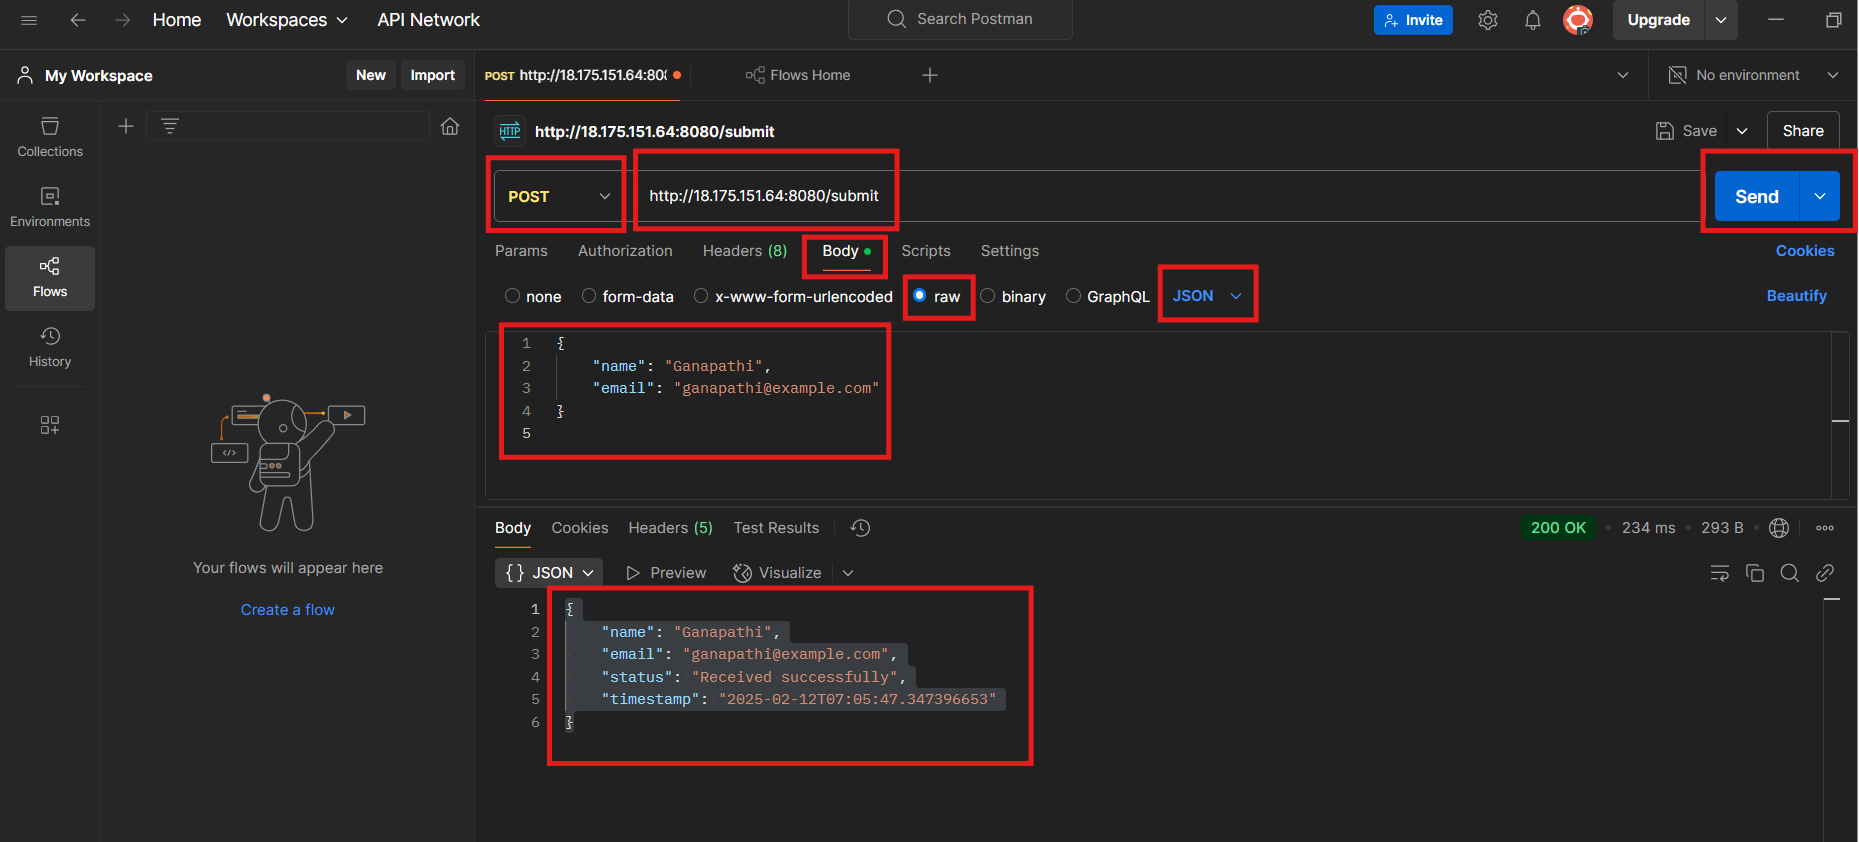
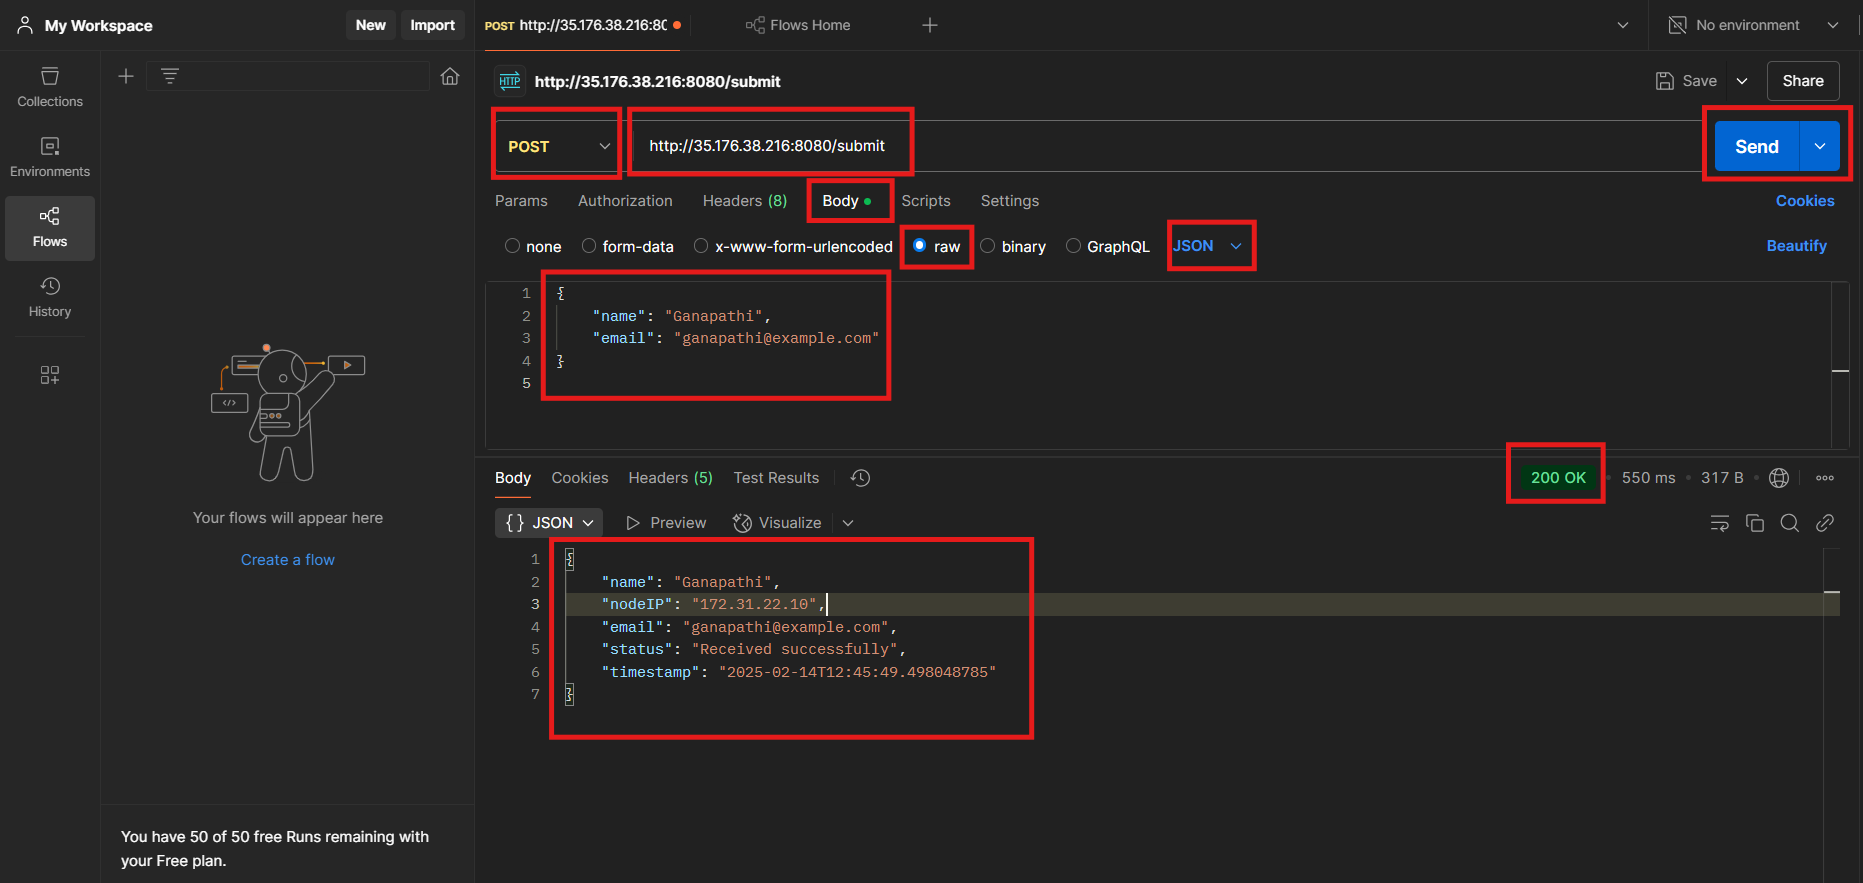
code updated

diff --git a/03.Maven/01.hello-world-app2.md b/03.Maven/01.hello-world-app2.md
@@ -1,6 +1,7 @@
 # Setting Up a Sample Spring Boot Application with Maven on Amazon Linux 
+- [GitHub Repository](https://github.com/kganapathi6008/hello-world-app2)
 
-This guide will walk you through the process of setting up a simple Spring Boot application using Maven on an Amazon Linux server. It includes installing dependencies, building the application, and running it.
+- This guide will walk you through the process of setting up a simple Spring Boot application using Maven on an Amazon Linux server. It includes installing dependencies, building the application, and running it.
 
 ---
 
@@ -183,6 +184,8 @@ import org.springframework.boot.SpringApplication;
 import org.springframework.boot.autoconfigure.SpringBootApplication;
 import org.springframework.web.bind.annotation.*;
 
+import java.net.InetAddress;
+import java.net.UnknownHostException;
 import java.time.LocalDateTime;
 import java.util.HashMap;
 import java.util.Map;
@@ -200,40 +203,44 @@ class HelloController {
     private static final Logger logger = LoggerFactory.getLogger(HelloController.class);
 
     @GetMapping
-    public Map<String, String> hello() {
+    public Map<String, String> hello() throws UnknownHostException {
         logger.info("Received request for / endpoint");
         Map<String, String> response = new HashMap<>();
         response.put("message", "Hello, World from Spring Boot!");
         response.put("timestamp", LocalDateTime.now().toString());
+        response.put("nodeIP", InetAddress.getLocalHost().getHostAddress());
         return response;
     }
 
     @GetMapping("/greet/{name}")
-    public Map<String, String> greet(@PathVariable String name) {
+    public Map<String, String> greet(@PathVariable String name) throws UnknownHostException {
         logger.info("Greeting request for {}", name);
         Map<String, String> response = new HashMap<>();
         response.put("message", "Hello, " + name + "!");
         response.put("timestamp", LocalDateTime.now().toString());
+        response.put("nodeIP", InetAddress.getLocalHost().getHostAddress());
         return response;
     }
 
     @PostMapping("/submit")
-    public Map<String, Object> submit(@RequestBody User user) {
+    public Map<String, Object> submit(@RequestBody User user) throws UnknownHostException {
         logger.info("Received user submission: {}", user);
         Map<String, Object> response = new HashMap<>();
         response.put("name", user.getName());
         response.put("email", user.getEmail());
         response.put("status", "Received successfully");
         response.put("timestamp", LocalDateTime.now().toString());
+        response.put("nodeIP", InetAddress.getLocalHost().getHostAddress());
         return response;
     }
 
     @GetMapping("/status")
-    public Map<String, String> status() {
+    public Map<String, String> status() throws UnknownHostException {
         logger.info("Checking application status");
         Map<String, String> response = new HashMap<>();
         response.put("status", "Application is running fine!");
         response.put("timestamp", LocalDateTime.now().toString());
+        response.put("nodeIP", InetAddress.getLocalHost().getHostAddress());
         return response;
     }
 }
@@ -272,6 +279,7 @@ Edit the file and replace its contents with:
 package com.example;
 
 import static org.assertj.core.api.Assertions.assertThat;
+
 import org.junit.jupiter.api.Test;
 import org.springframework.boot.test.context.SpringBootTest;
 import org.springframework.beans.factory.annotation.Autowired;
@@ -297,15 +305,13 @@ class AppTest {
     @Test
     void helloEndpointShouldReturnJson() {
         ResponseEntity<Map> response = restTemplate.getForEntity("http://localhost:" + port + "/", Map.class);
-        assertThat(response.getBody()).containsKeys("message", "timestamp");
-        assertThat(response.getBody().get("message")).isEqualTo("Hello, World from Spring Boot!");
+        assertThat(response.getBody()).containsKeys("message", "timestamp", "nodeIP");
     }
 
     @Test
     void greetEndpointShouldReturnJson() {
         ResponseEntity<Map> response = restTemplate.getForEntity("http://localhost:" + port + "/greet/Ganapathi", Map.class);
-        assertThat(response.getBody()).containsKeys("message", "timestamp");
-        assertThat(response.getBody().get("message")).isEqualTo("Hello, Ganapathi!");
+        assertThat(response.getBody()).containsKeys("message", "timestamp", "nodeIP");
     }
 
     @Test
@@ -315,16 +321,13 @@ class AppTest {
         user.setEmail("ganapathi@example.com");
 
         ResponseEntity<Map> response = restTemplate.postForEntity("http://localhost:" + port + "/submit", user, Map.class);
-        assertThat(response.getBody()).containsKeys("name", "email", "status", "timestamp");
-        assertThat(response.getBody().get("name")).isEqualTo("Ganapathi");
-        assertThat(response.getBody().get("status")).isEqualTo("Received successfully");
+        assertThat(response.getBody()).containsKeys("name", "email", "status", "timestamp", "nodeIP");
     }
 
     @Test
     void statusEndpointShouldReturnJson() {
         ResponseEntity<Map> response = restTemplate.getForEntity("http://localhost:" + port + "/status", Map.class);
-        assertThat(response.getBody()).containsKeys("status", "timestamp");
-        assertThat(response.getBody().get("status")).isEqualTo("Application is running fine!");
+        assertThat(response.getBody()).containsKeys("status", "timestamp", "nodeIP");
     }
 }
 ```
@@ -442,9 +445,8 @@ Once these rules are set, you can access your Spring Boot application through th
   ```
 
 #### 2. Adding a Screenshot
-```md
 ![Postman Request](../screenshots/hello-world-app-postman.png)
-```
+
 ---
 
 ## **7.Troubleshooting**

diff --git a/04.docker/01.docker-installation.md b/04.docker/01.docker-installation.md
@@ -72,8 +72,21 @@ Then reconnect using SSH:
 ssh ec2-user@<ec2-ip-address-dns-name-here>
 ```
 
-### 10. Verify Docker Installation
-To confirm that Docker is installed and working, run:
+### 10. Apply Group Changes Without Logging Out
+Instead of logging out and logging back in, you can apply the group changes immediately using:
+```sh
+newgrp docker
+```
+This will start a new shell session with the updated group permissions.
+
+### 11. Verify Docker Access
+Run the following command to check if you can use Docker without `sudo`:
+```sh
+docker ps
+```
+If the command runs successfully without requiring `sudo`, the setup is complete.
+
+
 ```sh
 docker version
 ```
